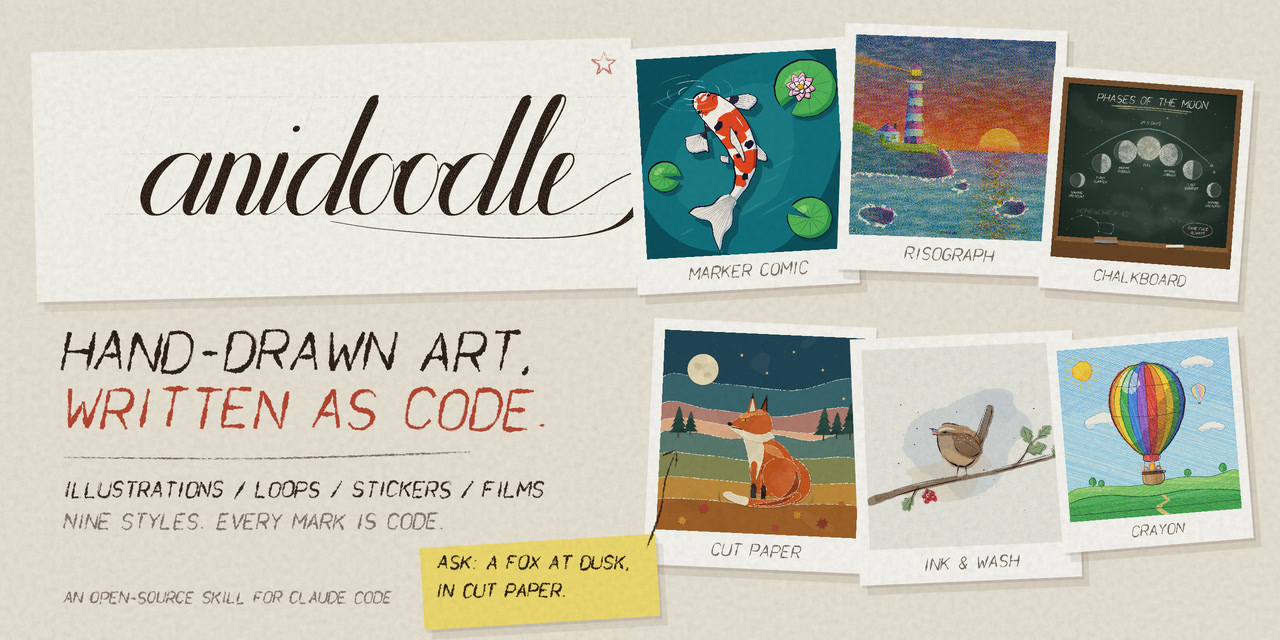
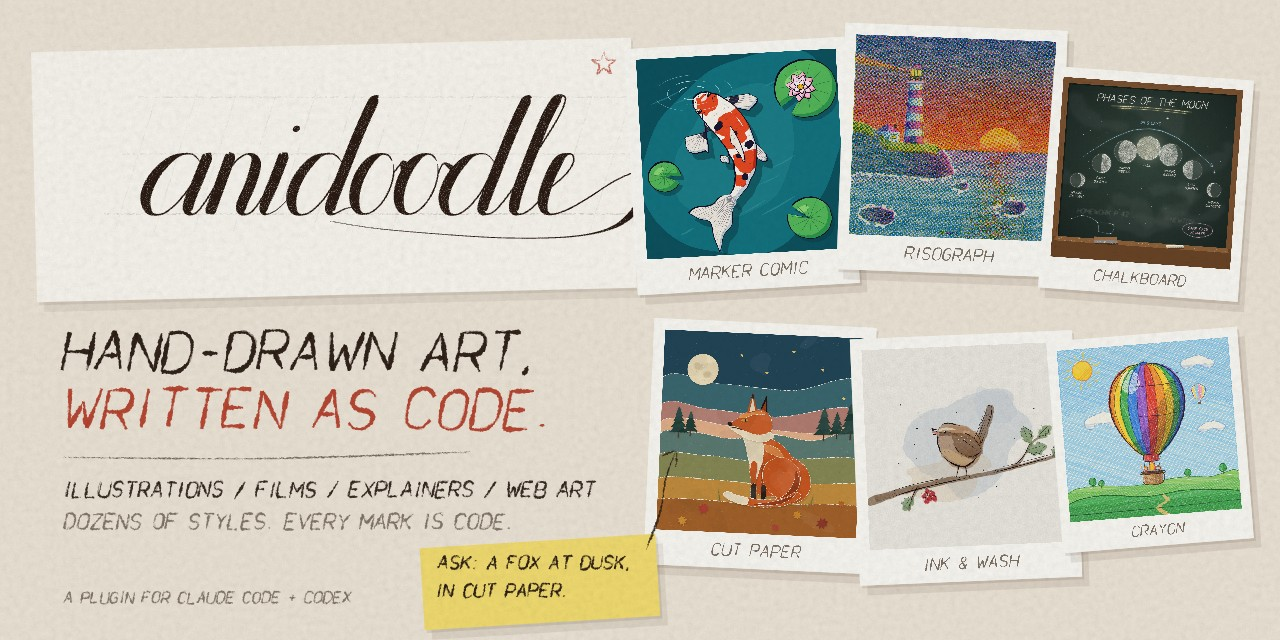
Social card: dozens of styles, films, explainers and web art; a plugin for Claude Code + Codex

diff --git a/skills/anidoodle/engine/src/canvas-core/socialCard.ts b/skills/anidoodle/engine/src/canvas-core/socialCard.ts
@@ -59,8 +59,8 @@ export const drawSocialCard = (ctx: Ctx, _frame: number, env: Env) => {
   letter(g, "HAND-DRAWN ART,", 62, 332, { cap: 38, color: IRON, seed: 3, w: 3.4 });
   letter(g, "WRITTEN AS CODE.", 62, 390, { cap: 38, color: RED, seed: 4, w: 3.4 });
   g.group("ink", () => g.pen(line([64, 458], [470, 452], 3), { w: 1.2, color: IRON, opacity: 0.55, wobble: 0.8, boil: 0, seed: 7 }));
-  letter(g, "ILLUSTRATIONS / LOOPS / STICKERS / FILMS", 64, 482, { cap: 15, color: IRON, seed: 5, w: 1.6, opacity: 0.9 });
-  letter(g, "NINE STYLES. EVERY MARK IS CODE.", 64, 514, { cap: 15, color: MUTED, seed: 6, w: 1.5, opacity: 0.9 });
+  letter(g, "ILLUSTRATIONS / FILMS / EXPLAINERS / WEB ART", 64, 482, { cap: 15, color: IRON, seed: 5, w: 1.6, opacity: 0.9 });
+  letter(g, "DOZENS OF STYLES. EVERY MARK IS CODE.", 64, 514, { cap: 15, color: MUTED, seed: 6, w: 1.5, opacity: 0.9 });
 
   // the prints, each drawn full size by its own module onto a sheet with a margin and a lettered
   // caption, and the whole sheet is then turned and set down on the desk
@@ -97,7 +97,7 @@ export const drawSocialCard = (ctx: Ctx, _frame: number, env: Env) => {
     g.pen([[662, 456], [676, 452], [676, 467]], { w: 1.6, color: IRON, opacity: 0.85, wobble: 0.3, boil: 0, seed: 72, retrace: false });
   });
   // what it is, for anyone who meets it outside GitHub
-  letter(g, "AN OPEN-SOURCE SKILL FOR CLAUDE CODE", 64, 592, { cap: 11, color: MUTED, seed: 8, w: 1.2, opacity: 0.9 });
+  letter(g, "A PLUGIN FOR CLAUDE CODE + CODEX", 64, 592, { cap: 11, color: MUTED, seed: 8, w: 1.2, opacity: 0.9 });
   g.group("ink", () => {
     const star = (cx: number, cy: number, k: number, seed: number) => { const pts: P[] = []; for (let i = 0; i <= 10; i++) { const t = (i / 10) * Math.PI * 2 - Math.PI / 2, rr = i % 2 ? k * 0.42 : k; pts.push([cx + Math.cos(t) * rr, cy + Math.sin(t) * rr]); } g.pen(pts, { w: 1.1, color: RED, opacity: 0.7, wobble: 0.4, boil: 0, seed }); };
     star(604, 64, 12, 81);
